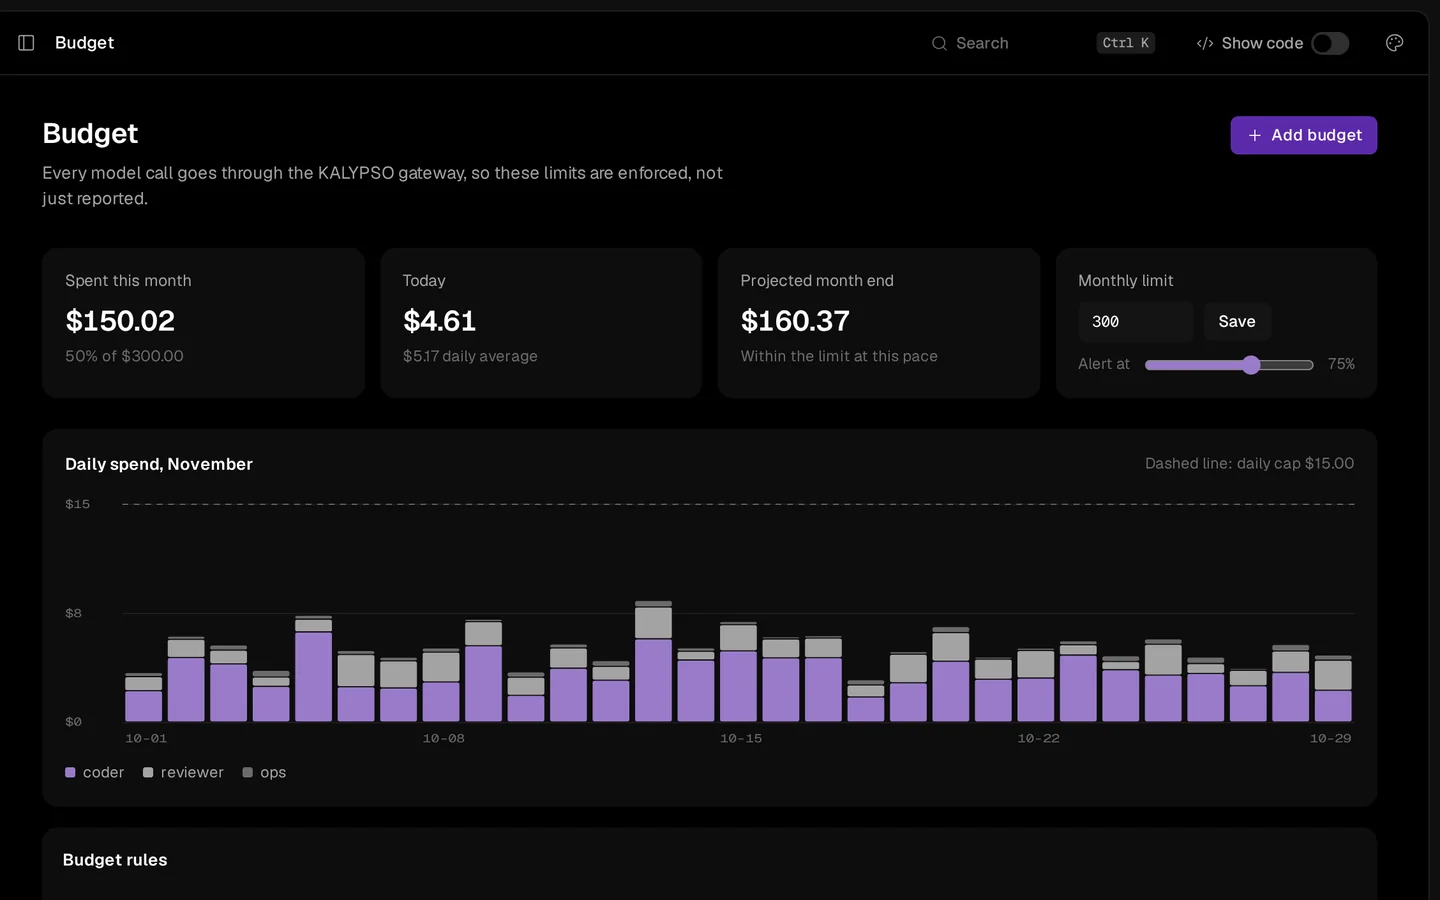
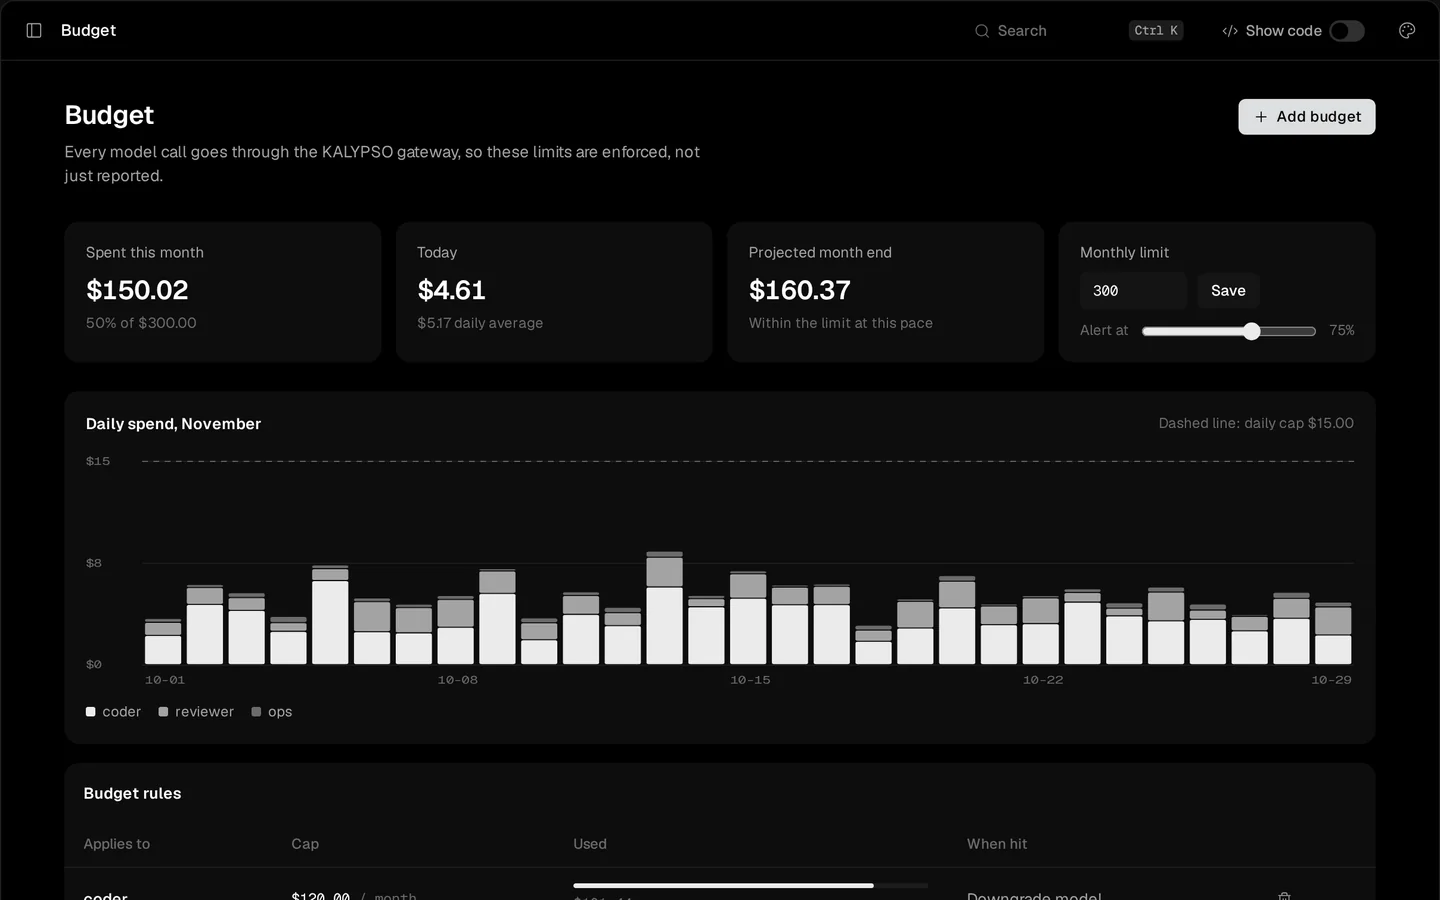
feat: app screens in black, white and grey
Retake the tab screens and the link preview from the app's new default
theme, move each callout pin onto its element, and drop screenshots the
page no longer uses.

diff --git a/index.html b/index.html
@@ -143,11 +143,11 @@
           <button role="tab" id="tab-budget" aria-controls="show-panel" aria-selected="false" tabindex="-1" data-tab="budget"><i class="bar"></i>BUDGET</button>
           </div>
           <div class="show-frame" id="show-panel" role="tabpanel" aria-labelledby="tab-agents">
-            <figure class="show-shot on" data-tab="agents"><picture><source type="image/webp" srcset="assets/layer-agent.webp"><img src="assets/layer-agent.jpg" alt="An agent called coder running in its sandbox, with its model, policies, skills and secrets" width="1440" height="900" loading="lazy" decoding="async"></picture><span class="pin" style="left:17.5%;top:19.5%"></span><span class="leader" style="left:17.5%;top:19.5%"></span><span class="callout" style="left:17.5%;top:19.5%">Supervised: restarted if it crashes.</span></figure>
-            <figure class="show-shot" data-tab="policies"><picture><source type="image/webp" srcset="assets/layer-policies.webp"><img src="assets/layer-policies.jpg" alt="The Policies page: block, ask me and warn rules, with today's stopped calls" width="1440" height="900" loading="lazy" decoding="async"></picture><span class="pin" style="left:77.6%;top:62.9%"></span><span class="leader" style="left:77.6%;top:62.9%"></span><span class="callout" style="left:77.6%;top:62.9%">Block, ask you, or warn.</span></figure>
-            <figure class="show-shot" data-tab="sandboxes"><picture><source type="image/webp" srcset="assets/layer-sandbox.webp"><img src="assets/layer-sandbox.jpg" alt="The Sandboxes page: two isolated containers with their limits, network and status" width="1440" height="900" loading="lazy" decoding="async"></picture><span class="pin" style="left:77.0%;top:37.0%"></span><span class="leader" style="left:77.0%;top:37.0%"></span><span class="callout" style="left:77.0%;top:37.0%">Started, paused or stopped from here.</span></figure>
-            <figure class="show-shot" data-tab="secrets"><picture><source type="image/webp" srcset="assets/layer-vault.webp"><img src="assets/layer-vault.jpg" alt="The Secrets page: encrypted secrets with their scope and which agents use them" width="1440" height="900" loading="lazy" decoding="async"></picture><span class="pin" style="left:30.0%;top:36.4%"></span><span class="leader" style="left:30.0%;top:36.4%"></span><span class="callout" style="left:30.0%;top:36.4%">Values never reach an agent.</span></figure>
-            <figure class="show-shot" data-tab="budget"><picture><source type="image/webp" srcset="assets/layer-gateway.webp"><img src="assets/layer-gateway.jpg" alt="The Budget page: spend this month, daily spend per agent and budget rules" width="1440" height="900" loading="lazy" decoding="async"></picture><span class="pin" style="left:8.5%;top:35.6%"></span><span class="leader" style="left:8.5%;top:35.6%"></span><span class="callout" style="left:8.5%;top:35.6%">Metered per agent, per model.</span></figure>
+            <figure class="show-shot on" data-tab="agents"><picture><source type="image/webp" srcset="assets/layer-agent.webp"><img src="assets/layer-agent.jpg" alt="An agent called coder running in its sandbox, with its model, policies, skills and secrets" width="1440" height="900" loading="lazy" decoding="async"></picture><span class="pin" style="left:18.0%;top:17.5%"></span><span class="leader" style="left:18.0%;top:17.5%"></span><span class="callout" style="left:18.0%;top:17.5%">Supervised: restarted if it crashes.</span></figure>
+            <figure class="show-shot" data-tab="policies"><picture><source type="image/webp" srcset="assets/layer-policies.webp"><img src="assets/layer-policies.jpg" alt="The Policies page: block, ask me and warn rules, with today's stopped calls" width="1440" height="900" loading="lazy" decoding="async"></picture><span class="pin" style="left:78.8%;top:57.7%"></span><span class="leader" style="left:78.8%;top:57.7%"></span><span class="callout" style="left:78.8%;top:57.7%">Block, ask you, or warn.</span></figure>
+            <figure class="show-shot" data-tab="sandboxes"><picture><source type="image/webp" srcset="assets/layer-sandbox.webp"><img src="assets/layer-sandbox.jpg" alt="The Sandboxes page: two isolated containers with their limits, network and status" width="1440" height="900" loading="lazy" decoding="async"></picture><span class="pin" style="left:77.6%;top:34.0%"></span><span class="leader" style="left:77.6%;top:34.0%"></span><span class="callout" style="left:77.6%;top:34.0%">Started, paused or stopped from here.</span></figure>
+            <figure class="show-shot" data-tab="secrets"><picture><source type="image/webp" srcset="assets/layer-vault.webp"><img src="assets/layer-vault.jpg" alt="The Secrets page: encrypted secrets with their scope and which agents use them" width="1440" height="900" loading="lazy" decoding="async"></picture><span class="pin" style="left:33.3%;top:33.1%"></span><span class="leader" style="left:33.3%;top:33.1%"></span><span class="callout" style="left:33.3%;top:33.1%">Values never reach an agent.</span></figure>
+            <figure class="show-shot" data-tab="budget"><picture><source type="image/webp" srcset="assets/layer-gateway.webp"><img src="assets/layer-gateway.jpg" alt="The Budget page: spend this month, daily spend per agent and budget rules" width="1440" height="900" loading="lazy" decoding="async"></picture><span class="pin" style="left:15.5%;top:32.2%"></span><span class="leader" style="left:15.5%;top:32.2%"></span><span class="callout" style="left:15.5%;top:32.2%">Metered per agent, per model.</span></figure>
           </div>
         </div>
       </div>
